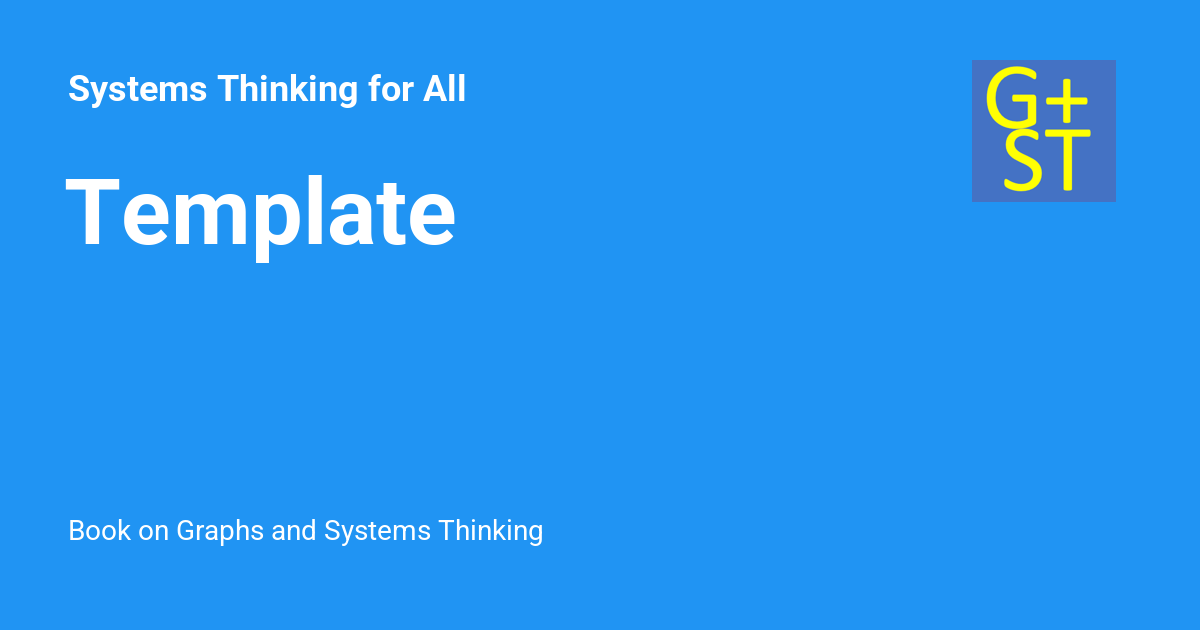
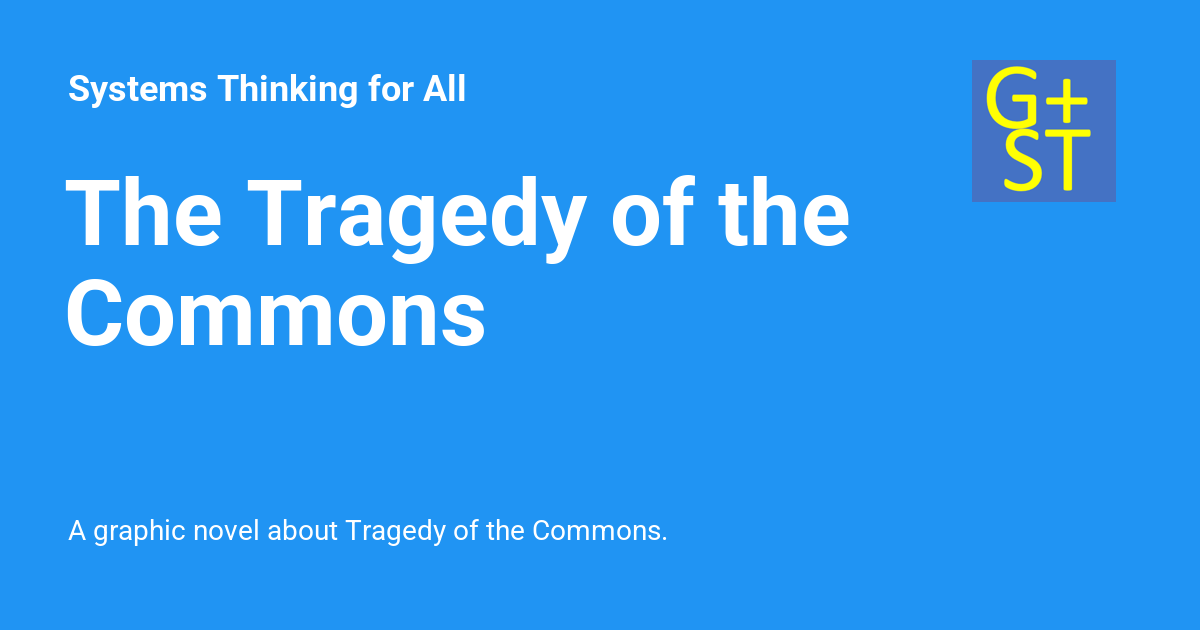
Deployed f6dcdfb with MkDocs version: 1.6.1

Changed region(s): [[0.0925, 0.2714, 0.7092, 0.4222], [0.0308, 0.4222, 0.4008, 0.573], [0.0617, 0.8143, 0.555, 0.8746]]

diff --git a/sims/template/index.html b/sims/template/index.html
@@ -6,7 +6,7 @@
       <meta charset="utf-8">
       <meta name="viewport" content="width=device-width,initial-scale=1">
       
-        <meta name="description" content="Book on Graphs and Systems Thinking">
+        <meta name="description" content="A graphic novel about Tragedy of the Commons.">
       
       
         <meta name="author" content="Dan McCreary">
@@ -26,7 +26,7 @@
     
     
       
-        <title>Template - Systems Thinking for All</title>
+        <title>The Tragedy of the Commons - Systems Thinking for All</title>
       
     
     
@@ -73,11 +73,11 @@
       
         <meta  property="og:type"  content="website" >
       
-        <meta  property="og:title"  content="Template - Systems Thinking for All" >
+        <meta  property="og:title"  content="The Tragedy of the Commons - Systems Thinking for All" >
       
-        <meta  property="og:description"  content="Book on Graphs and Systems Thinking" >
+        <meta  property="og:description"  content="A graphic novel about Tragedy of the Commons." >
       
-        <meta  property="og:image"  content="https://dmccreary.github.io/systems-thinking/assets/images/social/sims/template/index.png" >
+        <meta property="og:image" content="https://dmccreary.github.io/systems-thinking/systems-thinking/stories/moores-law/cover.jpg">
       
         <meta  property="og:image:type"  content="image/png" >
       
@@ -89,11 +89,11 @@
       
         <meta  name="twitter:card"  content="summary_large_image" >
       
-        <meta  name="twitter:title"  content="Template - Systems Thinking for All" >
+        <meta  name="twitter:title"  content="The Tragedy of the Commons - Systems Thinking for All" >
       
-        <meta  name="twitter:description"  content="Book on Graphs and Systems Thinking" >
+        <meta  name="twitter:description"  content="A graphic novel about Tragedy of the Commons." >
       
-        <meta  name="twitter:image"  content="https://dmccreary.github.io/systems-thinking/assets/images/social/sims/template/index.png" >
+        <meta name="twitter:image" content="https://dmccreary.github.io/systems-thinking/systems-thinking/stories/moores-law/cover.jpg">
       
     
     
@@ -149,7 +149,7 @@
         <div class="md-header__topic" data-md-component="header-topic">
           <span class="md-ellipsis">
             
-              Template
+              The Tragedy of the Commons
             
           </span>
         </div>

diff --git a/stories/moores-law/index.html b/stories/moores-law/index.html
@@ -77,7 +77,7 @@
       
         <meta  property="og:description"  content="A graphic novel about how Gordon Moore observed exponential growth of silicon chip density." >
       
-        <meta property="og:image" content="https://dmccreary.github.io/systems-thinking/systems-thinking/stories/moores-law/cover.jpg">
+        <meta property="og:image" content="https://dmccreary.github.io/systems-thinking/stories/moores-law/cover.jpg">
       
         <meta  property="og:image:type"  content="image/png" >
       
@@ -93,7 +93,7 @@
       
         <meta  name="twitter:description"  content="A graphic novel about how Gordon Moore observed exponential growth of silicon chip density." >
       
-        <meta name="twitter:image" content="https://dmccreary.github.io/systems-thinking/systems-thinking/stories/moores-law/cover.jpg">
+        <meta name="twitter:image" content="https://dmccreary.github.io/systems-thinking/stories/moores-law/cover.jpg">
       
     
     

diff --git a/stories/tragedy-of-the-commons/index.html b/stories/tragedy-of-the-commons/index.html
@@ -77,7 +77,7 @@
       
         <meta  property="og:description"  content="A graphic novel about Tragedy of the Commons." >
       
-        <meta property="og:image" content="https://dmccreary.github.io/systems-thinking/systems-thinking/stories/moores-law/cover.jpg">
+        <meta property="og:image" content="https://dmccreary.github.io/systems-thinking/stories/moores-law/cover.jpg">
       
         <meta  property="og:image:type"  content="image/png" >
       
@@ -93,7 +93,7 @@
       
         <meta  name="twitter:description"  content="A graphic novel about Tragedy of the Commons." >
       
-        <meta name="twitter:image" content="https://dmccreary.github.io/systems-thinking/systems-thinking/stories/moores-law/cover.jpg">
+        <meta name="twitter:image" content="https://dmccreary.github.io/systems-thinking/stories/moores-law/cover.jpg">
       
     
     
